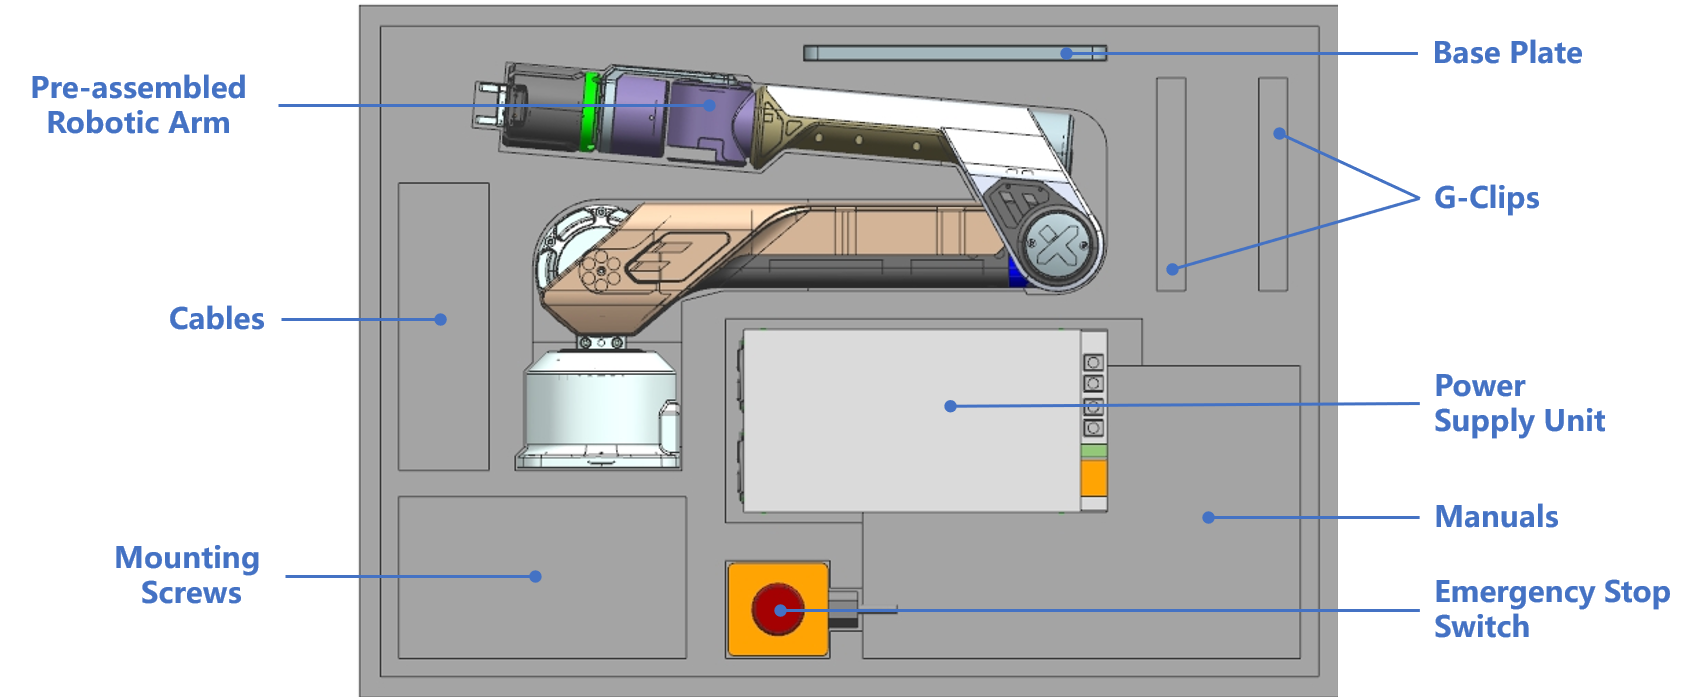
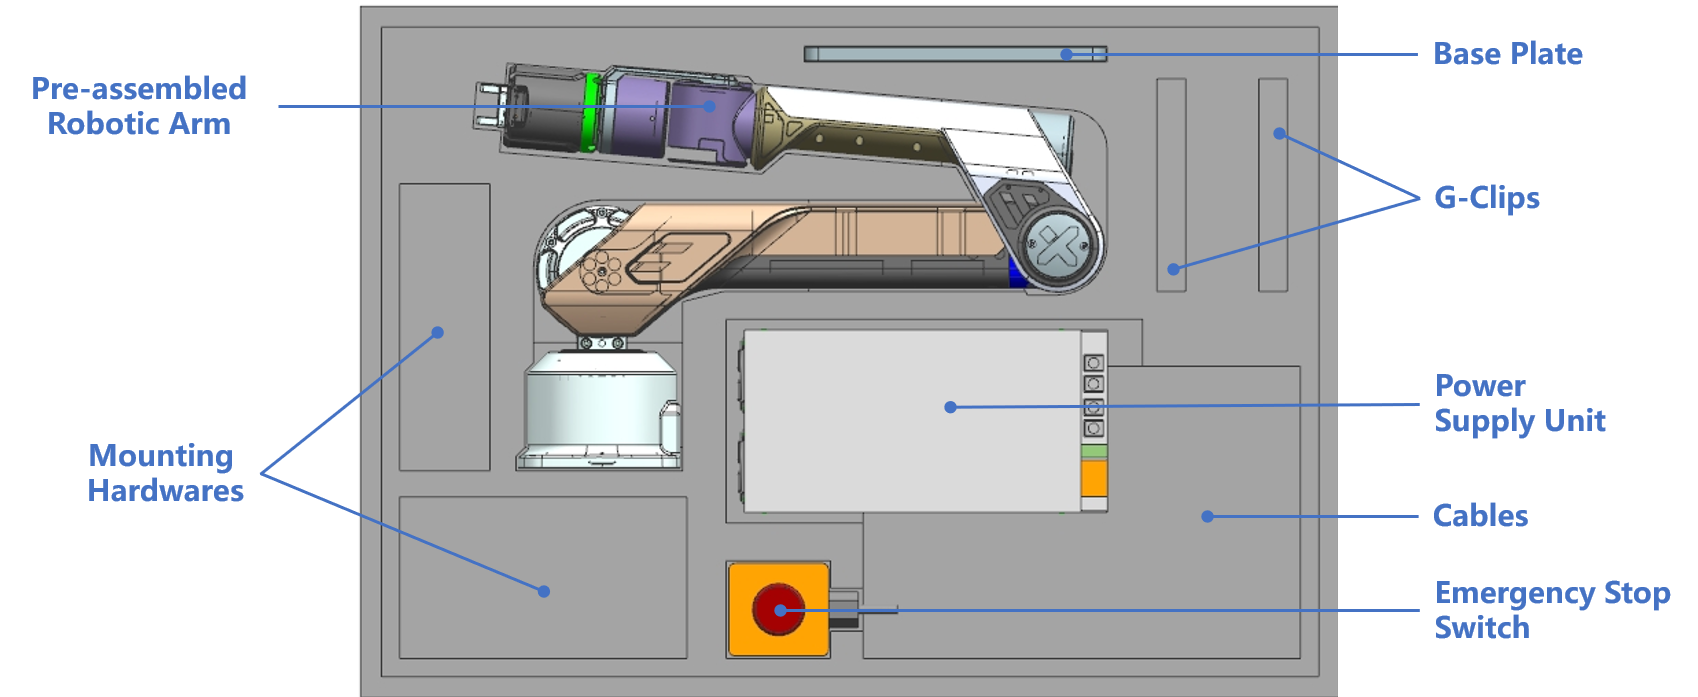
0802

diff --git a/docs/Guide/A1/Getting_Started.md b/docs/Guide/A1/Getting_Started.md
@@ -15,25 +15,25 @@ Therefore, we strongly recommend that every user carefully read and follow the i
 Safety Guide before operating the robot for the first time to ensure that the operation process is safe and efficient.
 
 ### Unboxing
-Upon opening the package, you will find the robotic arm as a fully assembled unit. 
+Upon opening the package, you will find the robot arm as a fully assembled unit. 
 This means that the arm structure, including all its links and joints, 
 comes pre-assembled and ready for installation. Here’s what you can expect inside the box:
 
 ![A1_unboxing](assets/A1_unboxing.png)
 
-| Item                      | Quantity | Notes                                                                                                |
-|---------------------------|----------|------------------------------------------------------------------------------------------------------|
-| Pre-assembled Robotic Arm | 1        | The arm is constructed with all its components integrated, ensuring a straightforward setup process. |
-| Power Supply Unit         | 1        | Supplies the electrical power required for the robotic arm's operation.                              |
-| Emergency Stop Button     | 1        | Used for immediate power interruption during emergencies                                                                                                     |
-| Power Cables              | 1        | Used to connect the PSU to the robotic arm and the controller.                                       |
-| USB-A Cable               | 1        | Used to connect the robotic arm controller to a computer with a USB-A port.                          |
-| Mounting Base Plate       | 1        | A flat plate for mounting the robotic arm to a stable surface.                                       |
-| G-Clips                   | 2        | Grating fasteners, used to secure the base plate to the worktable or surface.                        |
-| Mounting Plate Screw M6   | 4        | Used to attach the base plate to the installation surface using the G-clips.                         |
-| Manuals                   | 1        | User manual, quick start guide, and safety instructions.                                             |
+| Item                    | Quantity | Notes                                                                                                |
+|-------------------------|----------|------------------------------------------------------------------------------------------------------|
+| Pre-assembled Robot Arm | 1        | The arm is constructed with all its components integrated, ensuring a straightforward setup process. |
+| Power Supply Unit       | 1        | Supplies the electrical power required for the robot arm's operation.                              |
+| Emergency Stop Button   | 1        | Used for immediate power interruption during emergencies                                                                                                     |
+| Power Cables            | 1        | Used to connect the PSU to the robot arm and the controller.                                       |
+| USB-A Cable             | 1        | Used to connect the robot arm controller to a computer with a USB-A port.                          |
+| Mounting Base Plate     | 1        | A flat plate for mounting the robot arm to a stable surface.                                       |
+| G-Clips                 | 2        | Grating fasteners, used to secure the base plate to the worktable or surface.                        |
+| Mounting Plate Screw M6 | 4        | Used to attach the base plate to the installation surface using the G-clips.                         |
+| Manuals                 | 1        | User manual, quick start guide, and safety instructions.                                             |
 
-If you need assistance unboxing the robotic arm, please refer to A1 unboxing video.
+If you need assistance unboxing the robot arm, please refer to A1 unboxing video.
 
 ### Installing Robot
 The installation process of A1 includes securing the arm to the mounting base to ensure its stability and operating accuracy. 
@@ -43,7 +43,7 @@ providing flexible mounting options.
 Please select the appropriate installtion platform and fixing method according to the operating environment 
 and usage requirements of the arm to ensure the stability and safety of the arm during operation.
 
-If you need assistance installing the robotic arm on a base, please refer to A1 installation video.
+If you need assistance installing the robot arm on a base, please refer to A1 installation video.
 
 ### Charging
 Before we begin, confirm that all of the packing material has been removed from the robot, 
@@ -53,11 +53,11 @@ To charge A1, please use the cable provided with the device and plug it into the
 
 ### Shutting Down
 In the event of an emergency where the normal shutdown procedure cannot be followed, 
-proceed to disconnect the power cable from the power supply to immediately halt the robotic arm's operation.
+proceed to disconnect the power cable from the power supply to immediately halt the robot arm's operation.
 
 ### Emergency Stop
-The power supply unit of the robotic arm includes an emergency stop switch button (E-stop) for immediate power 
-interruption during emergencies. Pressing the E-stop button will instantly disconnect power to the robotic arm,
+The power supply unit of the robot arm includes an emergency stop switch button (E-stop) for immediate power 
+interruption during emergencies. Pressing the E-stop button will instantly disconnect power to the robot arm,
 ensuring operator safety and preventing damage to the equipment.
 
 ## Community Resouces 

diff --git a/docs/Guide/A1/Hardware_Guide.md b/docs/Guide/A1/Hardware_Guide.md
@@ -98,7 +98,7 @@ which reflect its superior performance in highly dynamic operation.
 | Repeatability Accuracy               | $1mm$      |
 
 
-## Hardware Architecture
+## Robot Structure
 ![A1_topo](assets/A1_topo.jpg)
 
 ### Base
@@ -118,17 +118,12 @@ A1 has only two ports on the rear of the base for development and charging.
 
 
 ### Link
-Each arm comprises two Acrylonitrile Butadiene Styrenelinks set on base. 
-These two links are connected by six joints, 
-each of which is a planetary gear motor that enables high precision and high torque.
+A1 robot arm consists of two Acrylonitrile Butadiene Styrene (ABS) main links mounted on a base, 
+interconnected by six joints equipped with planetary gear motors that allow for independent variable-speed operation, 
+delivering high precision and torque, thereby enabling the arm to maneuver in any direction commanded by the controller.
 
-A1 robotic arm is an integrated unit, 
-which means it comes fully assembled and ready to use once the base is fixed in a platform by users.
+![A1_Structure](assets/A1_Structure.png)
 
-<div style="display: flex; justify-content: space-around;">
-  <img src="../assets/A1_size1.jpg" alt="Image 1" style="width: 60%;">
-  <img src="../assets/A1_size2.jpg" alt="Image 2" style="width: 30%;">
-</div>
 
 The arm is designed to have:
 
@@ -159,32 +154,30 @@ demonstrating its flexibility and power in a variety of operations.
 | Joint 5 | $[-95°, 95°]$   | $3 Nm$       |
 | Joint 6 | $[-105°, 105°]$ | $3 Nm$       |
 
+![A1_joint_view](assets/A1_joint_view.png)
+
 View 1 shows the working radius and rotation angle of **Joint 1**, 
 with a rotation radius of 780mm and a maximum rotation angle of 330 degrees.
-
-![A1_joint_view1](assets/A1_joint_view1.png)
 
 View 2 shows the rotation ranges for **Joint 2 and Joint 3**. 
 The maximum rotation angle of Joint 2 is 180 degrees, and the maximum rotation angle of Joint 3 is 190 degrees.
 
-![A1_joint_view1](assets/A1_joint_view2.png)
 
 View 3 shows the rotation angle of **Joint 4,5,6** and the end position of the robotic arm. 
 The maximum rotation angle of Joint 4 and Joint 6 is 330 degrees, 
 and the maximum rotation angle of Joint 5 is 190 degrees. 
 The distance between two fingertips is 60mm.
 
-![A1_joint_view1](assets/A1_joint_view3.png)
-
 ### Gripper
+#### G1
+
 The gripper is composed of one motor, two clips, and one specially designed joint module.
 
 No gripper comes with the probduct. You can purchase end-effectors or customized tools from the Galaxea AI website, if needed.
 
-<div style="display: flex; justify-content: space-around;">
-  <img src="../assets/A1_gripper_view1.png" alt="Image 1" style="width: 30%;">
-  <img src="../assets/A1_gripper_view2.png" alt="Image 2" style="width: 70%;">
-</div>
+![G1_Structure_view](assets/G1_Structure_view.png)
+
+
 
 | Feature                 | Value       |
 |-------------------------|-------------|
@@ -196,10 +189,6 @@ No gripper comes with the probduct. You can purchase end-effectors or customized
 
 A1 arm with gripper should have:
 
-<div style="display: flex; justify-content: space-around;">
-  <img src="../assets/A1_gripper_size1.jpg" alt="Image 1" style="width: 60%;">
-  <img src="../assets/A1_gripper_size2.jpg" alt="Image 2" style="width: 30%;">
-</div>
 
 | Item              | Notes                            |
 |-------------------|----------------------------------|
@@ -211,9 +200,9 @@ A1 arm with gripper should have:
 | Weight            | 6kg                              |
 
 
-#### Gripper Attaching
-<img src="../assets/A1_joint_interface.png" alt="A1_joint_view1" width="400" />
-<img src="../assets/A1_gripper_interface.png" alt="A1_joint_view1" width="400" />
+#### Attaching
+![G1_interface](assets/G1_interface.png)
+![A1_interface](assets/A1_interface.png)
 
 1. **Alignment Check**: Ensure that the four protruding points on the gripper side align perfectly with the corresponding recessed points on the robotic arm's end effector mount. This alignment ensures that the gripper is properly positioned and centered.
 2. **Initial Placement**: Carefully place the gripper onto the robotic arm's end effector mount, making sure that the protrusions fit snugly into the recesses. This step is crucial for achieving the correct orientation and balance.
@@ -221,8 +210,17 @@ A1 arm with gripper should have:
 4. **Final Check**: After tightening the screws, double-check the alignment and stability of the gripper. It should be firmly attached and not wobble or move independently of the robotic arm.
 5. **Testing**: Before using the robotic arm, perform a test run to ens
 
+
+### Dexterous Hand
+The dexterous hand boasts significant gripping strength and moderate speed, 
+making it suitable for grasp and manipulation tasks in robotics or prosthetic applications. 
+Its combination of power and control allows for effective handling of various objects, 
+akin to the versatility of a human hand, thereby enhancing the functionality of robots or prostheses in performing complex tasks.
+
+![A1_Dexterous_Hand](assets/A1_dexterous_hand.png)
+
 ## Robot Care
-1. **Keet it clean**: In order to maintain the good operating condition of the robotic arm and extend its service life, 
+1. **Keet It Clean**: In order to maintain the good operating condition of the robotic arm and extend its service life, 
 regular cleaning work should be carried out. 
 Alcohol wipes or wet and clean rags can be used to gently wipe the surface of the robot arm, 
 including the shell, base and other components, to effectively remove debris, oil and other impurities attached to it.

diff --git a/docs/Guide/A1/Software_Guide.md b/docs/Guide/A1/Software_Guide.md
@@ -6,7 +6,7 @@ thus enabling two-way communication and real-time control.
 The tutorials will introduce how to use the programme to develop and operate A1. 
 
 ## Software Dependency
-1. Ubuntu 20.04LTS
+1. Ubuntu 20.04 LTS
 2. ROS Noetic
 
 ## Installation
@@ -105,17 +105,17 @@ you must first activate the `signal_arm` interface;
 detailed operation instructions can be found in the `signal_arm` documentation. 
 This project encompasses several primary functions:
 
-1. **End-Effector movement**: Enables users to control the position and orientation of the robotic arm's 
+1. **End-Effector Pose Movement**: Enables users to control the position and orientation of the robotic arm's 
 end-effector by publishing target pose messages, suitable for applications requiring precise positioning.
 
-2. **End-Effector Trajectory movement**: Achieves movement of the robotic arm's end-effector along a specified trajectory 
+2. **End-Effector Trajectory Movement**: Achieves movement of the robotic arm's end-effector along a specified trajectory 
 by publishing a series of pose messages, ideal for complex path planning and execution.
 
-3. **Joint movement**: Offers a joint-level control interface where users can set the target positions for each individual joint, 
+3. **Joint Angle Movement**: Offers a joint-level control interface where users can set the target positions for each individual joint, 
 facilitating coordinated whole-arm movements.
 
-### End-Effector movement
-1. First, initiate the end-effector movement script, which will launch an rviz visualization for A1, with the default joint positions at zero.
+### End-Effector Pose Movement
+1. First, initiate the end-effector pose movement script, which will launch an RViz visualization for A1, with the default joint positions at zero.
 ```shell
 cd release/install
 source setup.bash
@@ -185,7 +185,7 @@ pass
 
 ### End-Effector Trajectory Movement
 1. Firstly, initiate the end-effector trajectory movement script, 
-which will launch an rviz visualization for A1, with the default joint positions set at zero.
+which will launch an RViz visualization for A1, with the default joint positions set at zero.
 ```shell
 cd release/install
 source setup.bash
@@ -270,7 +270,7 @@ int main(int argc, char** argv)
 | /a1_mpc_target | pose.orientation.z | Orientation quaternion |
 | /a1_mpc_target | pose.orientation.w | Orientation quaternion |
 
-### Joint Movement
+### Joint Angle Movement
 
 
 #### Joint Position Movement Interface
